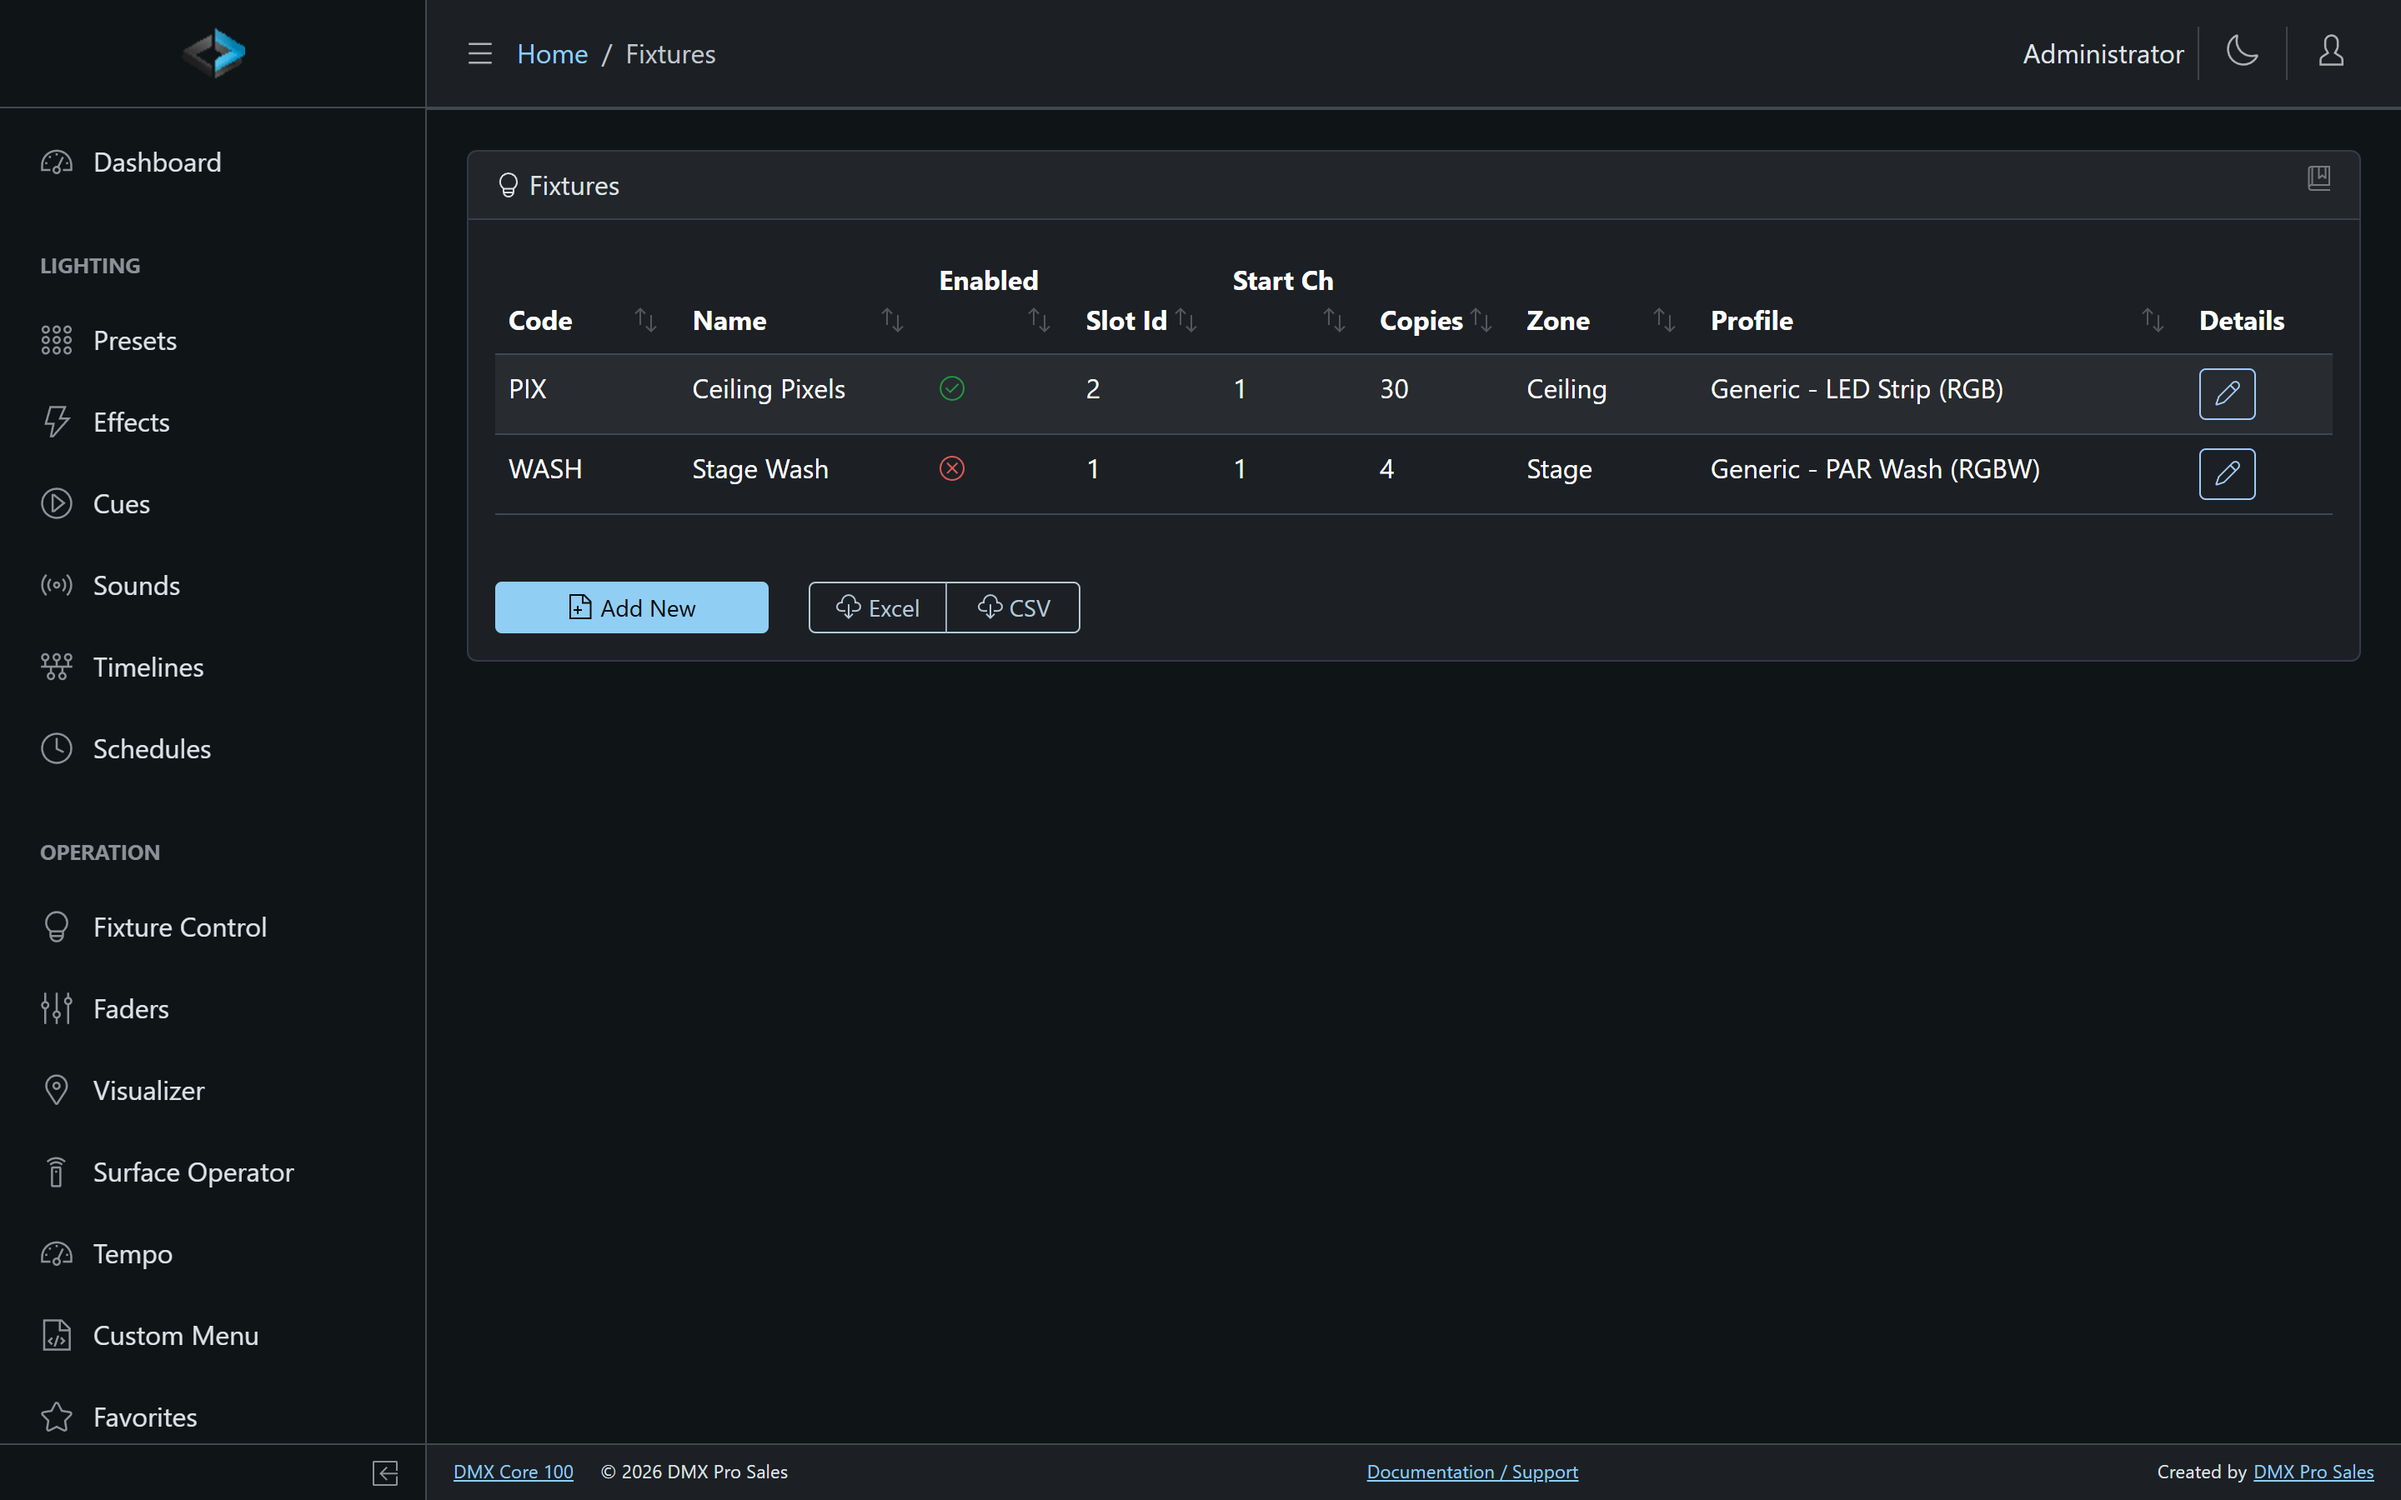
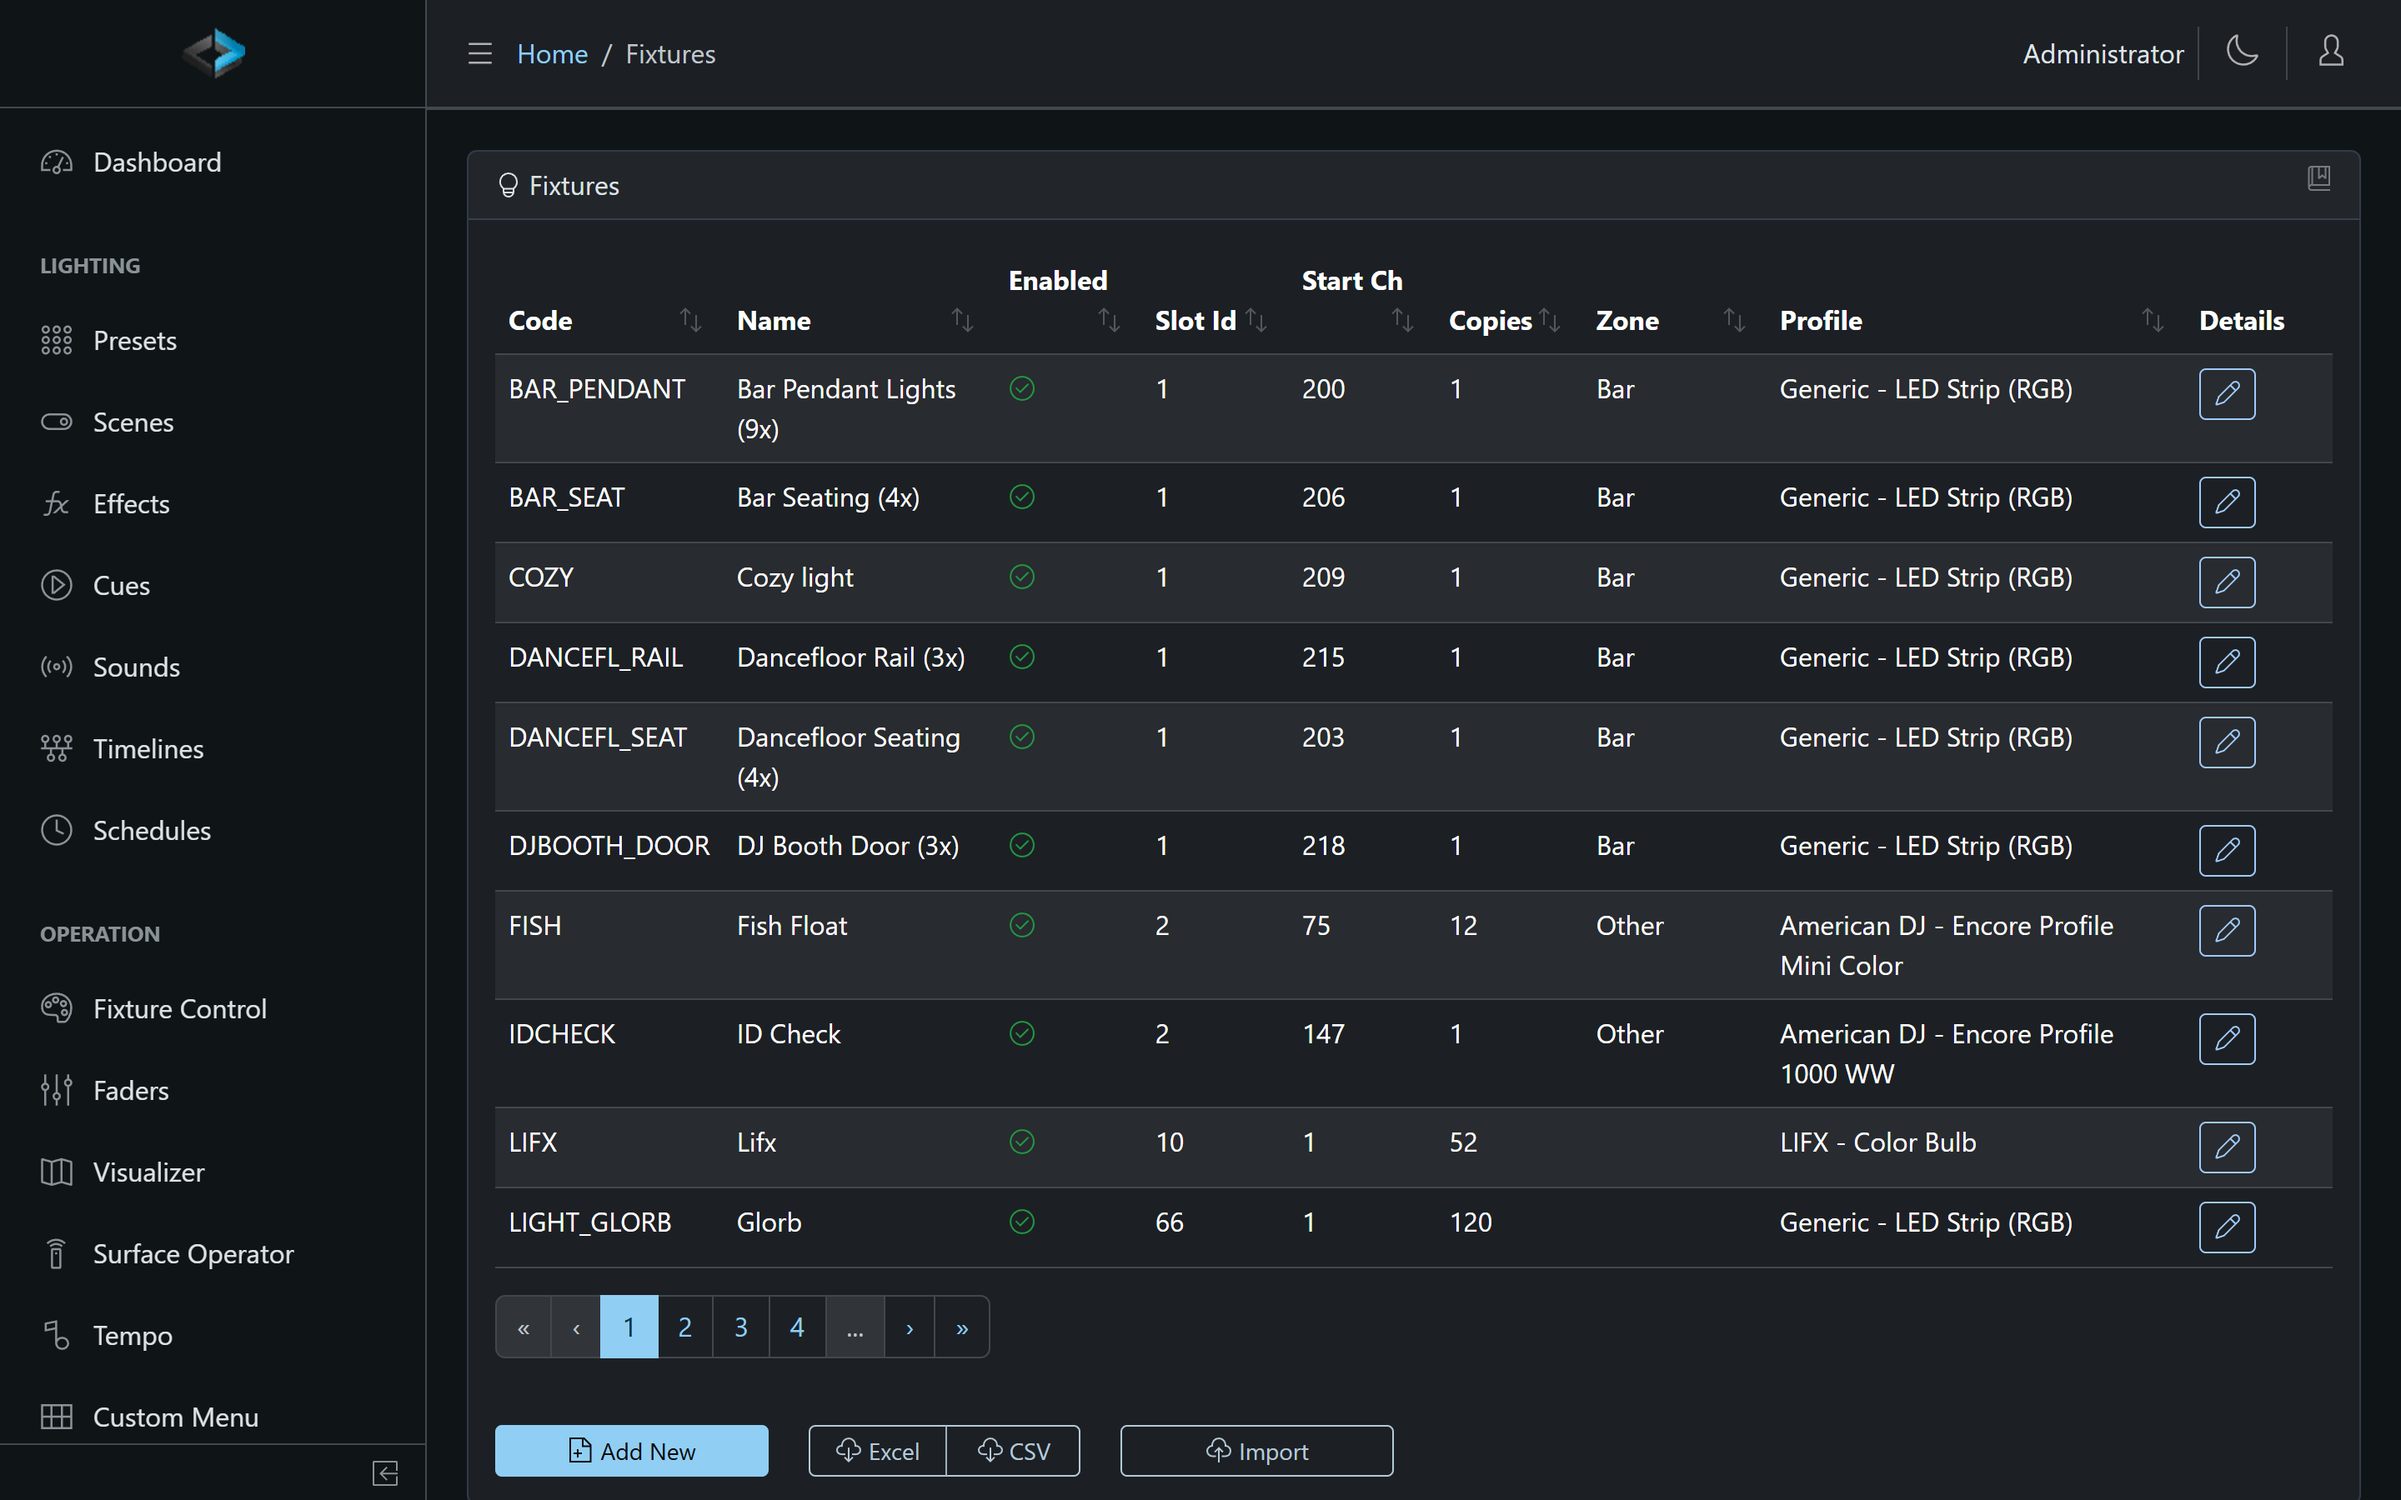
Fixture patch import: Fixture Setup gets an Importing Fixtures section (how rows are applied, the preview, fixture type matching, sheets from other programs, accepted columns) and an updated Exporting Fixtures section; release notes row for 10/26; screenshot of the import dialog with a sample third-

diff --git a/src/content/docs/dmx-core-100/lighting/fixture-setup.md b/src/content/docs/dmx-core-100/lighting/fixture-setup.md
@@ -109,12 +109,87 @@ When editing a fixture, the system checks whether the fixture's assigned slot ha
 
 ## Exporting Fixtures
 
-You can export your fixture list from **Lighting Setup > Fixtures** in the Web UI in two formats:
+You can export your fixture patch from **Lighting Setup > Fixtures** in the Web UI in two formats:
 
-- **Excel** - Full export with formatting, suitable for documentation
-- **CSV** - Lightweight export for spreadsheet tools and data processing
+- **Excel** - Full export with formatting and totals, suitable for documentation
+- **CSV** - For spreadsheet tools and data processing (UTF-8, opens correctly in Excel)
 
-The export includes fixture names, profiles, personalities, DMX addresses, and universe assignments - useful for documentation or handoff to a lighting programmer.
+Each fixture is one row, sorted by address: code, name, enabled, slot and start channel, personality, copies, zone, manufacturer and profile, profile code, copy trims, hidden functions and custom options. The **End Slot**, **End Ch**, **Ch/Fixture** and **Warning** columns are worked out for you (where the fixture ends, and which fixtures share channels); they are only there to read and are ignored on import.
+
+The export is complete, so it can be edited and [imported](#importing-fixtures) again, on the same unit or another one.
+
+## Importing Fixtures
+
+With a large rig, patching fixtures one at a time is slow. **Import** on **Lighting Setup > Fixtures** reads a whole patch from a CSV or Excel (`.xlsx`) sheet, one row per fixture. It needs the **Edit Fixtures** permission.
+
+The quickest way to build the sheet:
+
+1. Import the fixture profiles you need (see [Importing Profiles](#importing-profiles))
+2. Patch **one fixture of each type** the way you want it - personality, hidden functions, custom options
+3. **Export** the patch as CSV or Excel
+4. Add a row for every other fixture: copy a row of the same type, give it a name and an address, and clear its **Code** so a new code is assigned
+5. Click **Import**, choose the file, check the preview, and click **Import** in the dialog
+
+![Import fixture patch - preview with fixture type matching](/assets/web/fixture-patch-import.png)
+
+### How rows are applied
+
+- A row whose **Code** matches an existing fixture **updates** that fixture. Columns that are not in the sheet keep their current values, so a sheet with just **Code** and **Name** renames fixtures and changes nothing else
+- Any other row **adds** a new fixture. Leave **Code** empty to get the next free code (`LIGHT12`, `LIGHT13`, ...)
+- Fixtures that are not in the sheet are left alone; import never deletes fixtures
+- **Zones** must already exist (see [Zones](/dmx-core-100/lighting/zones)); a zone name the device doesn't know is an error. An empty Zone cell removes the fixture from its zone
+- Nothing is saved until you click **Import** in the dialog, and then everything is saved at once. If any row has an error, nothing is imported
+
+### The preview
+
+Choosing a file shows what the import will do before anything changes:
+
+- A count of **new**, **update**, **unchanged** and **error** rows, and the rows themselves with what changes for each update (for example `Address 1.1 → 2.101`)
+- **Errors** block the import: a missing address, slot 0, a channel outside 1-512, an unknown zone or profile, a code used twice in the file
+- **Warnings** do not block it: fixtures sharing channels (with other rows or with fixtures already patched), a slot with no enabled output, a copy trimmed to 0%
+- Columns the import doesn't use are listed, so a misspelled header is easy to spot
+
+### Fixture types
+
+Each fixture type in the sheet - the **Manufacturer**, **Profile** and **Personality** as written - is matched once for all its rows, in the **Fixture types** table:
+
+- **Exact** - the names match a profile on the device
+- **Suggested** - the closest match. If a fixture with that profile is already patched, the suggestion is to make the rows **like that fixture**, which also copies its hidden functions and custom options. This is why patching one fixture of each type first pays off
+- **Your choice** - pick a patched fixture or any profile (and personality) from the list
+- **Not matched** - nothing close was found; pick one before you can import
+
+A row can also name its type directly: **Profile Code** (written by the export) picks the exact profile, and a **Template** column with the code of a patched fixture makes the row like that fixture.
+
+### Sheets from other programs
+
+The import also reads patch sheets that were not made by DMX Core:
+
+- CSV separated by commas, semicolons or tabs, and Excel `.xlsx` (the first sheet; title rows above the table are skipped). Old `.xls` files must be saved as `.xlsx` or CSV first
+- Common column names work as they are: **Universe** for the slot, **Address** or **DMX** for the start channel, **Mode** for the personality, **Instrument Type** or **Fixture Type** for the profile, **Purpose** or **Label** for the name, **Count** or **Qty** for copies
+- An address can be one cell: `2.101`, `2/101` or `2:101` (slot 2, channel 101), or an absolute address such as `613` (also slot 2, channel 101) when there is no slot column
+- Slots start at 1. If a sheet numbers universes from 0, add 1 to them first
+
+| Column | Accepted names | Notes |
+|---|---|---|
+| Code | Code | Matches an existing fixture to update it. Empty for a new fixture |
+| Name | Name, Label, Purpose | Defaults to the profile name for a new fixture |
+| Enabled | Enabled | Yes/No, true/false, 1/0. New fixtures are enabled by default |
+| Slot | Slot ID, Universe | |
+| Start channel | Start Ch, Address, DMX, Channel | `2.101` style also accepted |
+| Copies | Copies, Count, Qty | 1-680 |
+| Personality | Personality, Mode | Empty: a new fixture gets the profile's first personality |
+| Manufacturer | Manufacturer, Make, Brand | |
+| Profile | Profile, Fixture Type, Instrument Type, Model, Type | |
+| Profile Code | Profile Code | Written by the export |
+| Template | Template | Code of a patched fixture to copy |
+| Zone | Zone, Group | Must exist |
+| Copy Trims | Copy Trims | `100% 80% 100%`, one per copy |
+| Hidden Functions | Hidden Functions | Separated by `;` |
+| Custom Options | Custom Options | `Name=Value; Name=Value` |
+
+:::tip
+Click **Download the current patch** in the import dialog before a large import. Importing that copy again puts back every fixture the import changed; fixtures it added stay and can be deleted by hand.
+:::
 
 ## Multi-Function Fixtures
 

diff --git a/src/content/docs/dmx-core-100/release-notes.md b/src/content/docs/dmx-core-100/release-notes.md
@@ -5,6 +5,7 @@ description: Release notes and highlights
 
 | Version | Date | Highlights |
 |---------|------|------------|
+| v2026.1026.x | 10/26/2026 | [Fixture patch import](/dmx-core-100/lighting/fixture-setup#importing-fixtures): **Import** on **Lighting Setup > Fixtures** reads a whole patch from a CSV or Excel sheet. Rows whose code matches a fixture update it, the rest are added, and a preview shows every change, error and channel overlap before anything is saved. Each fixture type in the sheet is matched once; a type that is already patched is suggested so new rows copy its personality, hidden functions and custom options. Sheets from other programs work too (Universe/Address columns, `2.101` addresses, semicolon CSV). The [export](/dmx-core-100/lighting/fixture-setup#exporting-fixtures) now includes everything needed to import it again and needs a signed-in user. [Visualizer](/dmx-core-100/lighting/visualizer) placements now follow a fixture by its code, so they survive a patch import or a backup restored on another unit |
 | Docs | 10/26/2026 | The [DMX Core 100 Companion module](https://bitfocus.io/connections/dmxcore-dmxcore100) is available. Enable the [Integration API](/dmx-core-100/integrations/integration-api) and issue a key to put cues and presets on Companion buttons |
 | Docs | 10/25/2026 | [Control your lights from TouchOSC: cues, presets and live feedback](https://youtu.be/4Eh02x-Pkzk) is on the [OSC](/dmx-core-100/integrations/osc-open-sound-control) and [Play a Cue over OSC](/dmx-core-100/common-tasks/play-a-cue-over-osc) pages. [Input Triggers](/dmx-core-100/scheduling-automation/input-triggers) links to the custom-addresses segment |
 | v2026.1021.x | 10/21/2026 | The home screen [logo animates](/dmx-core-100/customizations/main-home-screen-logo#logo-animation): a short shine across the built-in logo every 20 seconds. **Logo animation pause (seconds)** under **Device > Touchscreen** sets the rest between runs, `0` loops it continuously and an empty field turns it off. It stops while the recorder is enabled or the output sends to more than 64 universes. A custom logo can now be a WebP, and an [animated WebP](/dmx-core-100/customizations/main-home-screen-logo#animated-custom-logo) `home-logo.webp` plays the same way. A new, changed or deleted `home-logo` shows on the home screen right away, without a restart |
